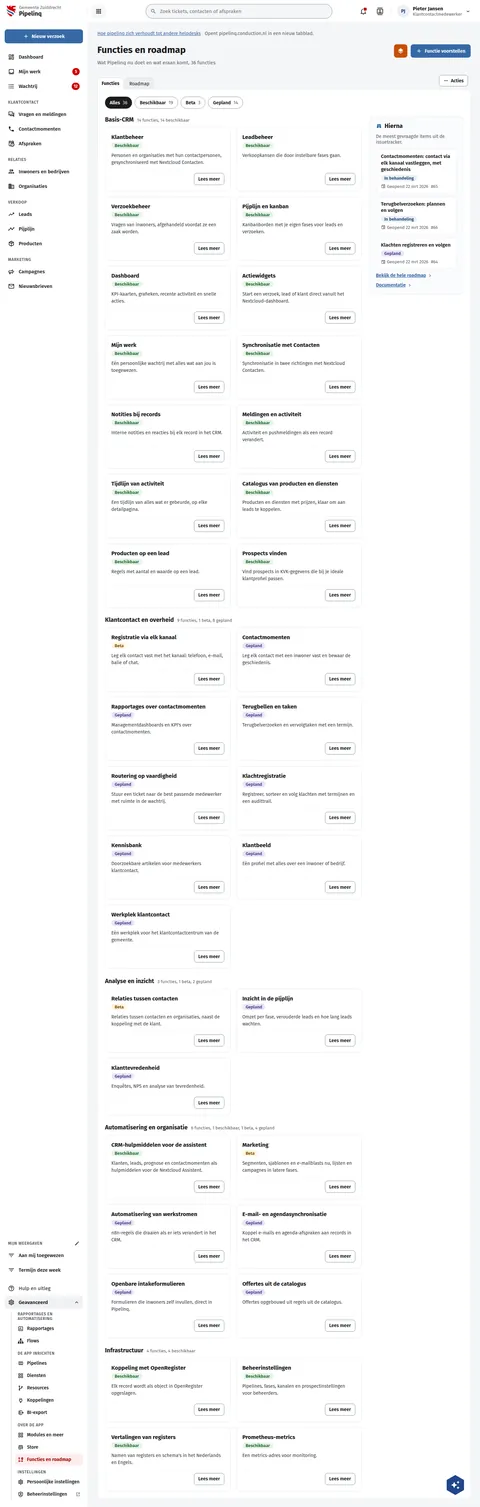
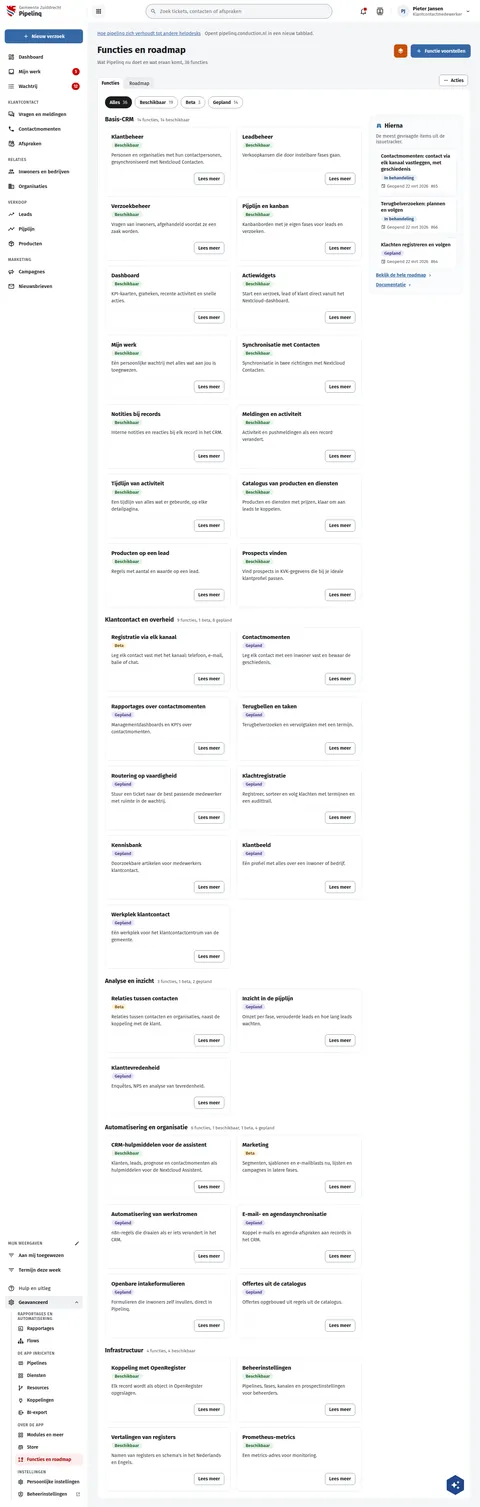
fix(screens): PqRoadmap subtitle 14px as DqFunctionaliteiten
The features page subtitle is 14px on DqFunctionaliteiten and live; Dq wins
over PqRoadmap's 15px.

Assisted-by: ClaudeCode:claude-opus-5-5

Changed region(s): [[0.8125, 0.0936, 0.875, 0.1559], [0.2188, 0.0624, 0.2812, 0.0936]]

diff --git a/preview/screens/boards/PqRoadmap.html b/preview/screens/boards/PqRoadmap.html
@@ -238,7 +238,7 @@ a{color:var(--sc-primary, #3669a5)}a:hover{color:var(--sc-primary-deep, #234a78)
           </div>
         </div>
         <div style="display: flex; flex-direction: column; gap: 6px; min-width: 0">
-          <span style="font-size: 15px; color: var(--sc-work-muted, #5e6168)">Wat Pipelinq nu doet en wat eraan komt, 36 functies</span>
+          <span style="font-size: 14px; color: var(--sc-work-muted, #5e6168)">Wat Pipelinq nu doet en wat eraan komt, 36 functies</span>
         </div>
       </section>
 

diff --git a/screens-src/zuiddrecht/PqRoadmap.dc.html b/screens-src/zuiddrecht/PqRoadmap.dc.html
@@ -30,7 +30,7 @@ a{color:#3669a5}a:hover{color:#234a78}
           </div>
         </div>
         <div style="display: flex; flex-direction: column; gap: 6px; min-width: 0">
-          <span style="font-size: 15px; color: #5e6168">Wat Pipelinq nu doet en wat eraan komt, 36 functies</span>
+          <span style="font-size: 14px; color: #5e6168">Wat Pipelinq nu doet en wat eraan komt, 36 functies</span>
         </div>
       </section>
 
